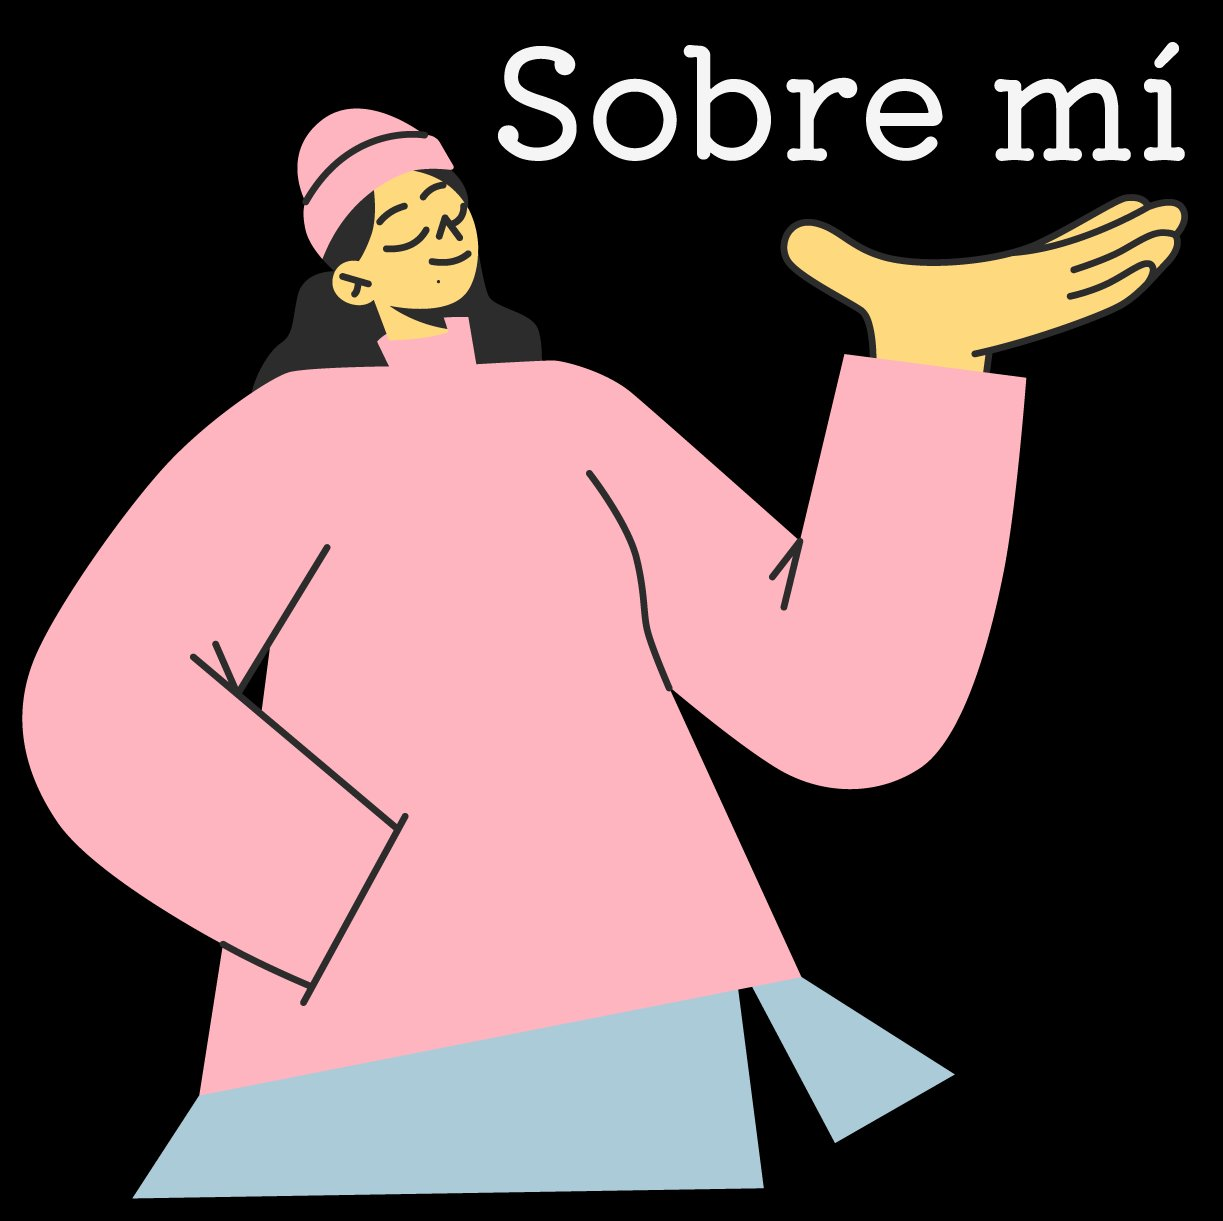
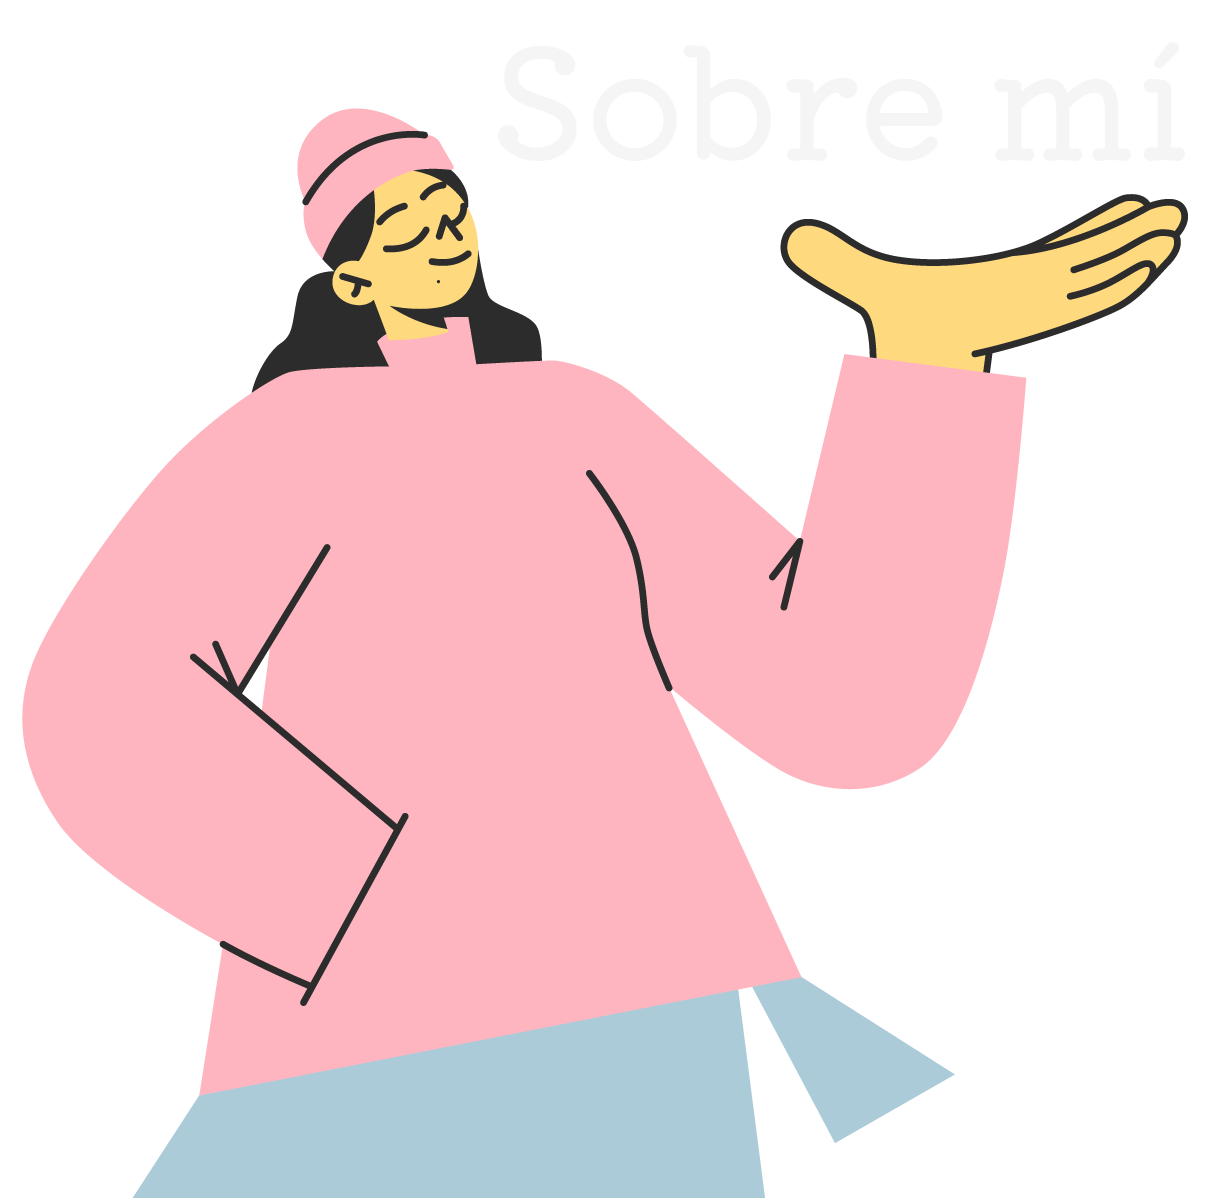
Add files via upload

diff --git a/sobre.html b/sobre.html
@@ -137,44 +137,39 @@
     .hamburger.open span:nth-child(2) { opacity: 0; }
     .hamburger.open span:nth-child(3) { transform: translateY(-7px) rotate(-45deg); }
 
-    /* ── ③ HERO SCROLL EFFECT ─────────────────
-       La ilustración ocupa toda la pantalla (100vh).
-       El rectángulo crema empieza visible un poco (peek)
-       y sube con scroll, tapando la ilustración.
+    /* ── HERO SCROLL EFFECT ───────────────────
+       La ilustración está fija (position: fixed) pegada arriba.
+       El rectángulo crema sube con el scroll y la tapa.
+       z-index: ilustración (2) < tarjeta (10)
     ─────────────────────────────────────────── */
 
     .hero-section {
       position: relative;
       height: 100vh;
-      background: var(--red);
-      display: flex;
-      flex-direction: column;
-      align-items: center;
-      justify-content: flex-end; /* imagen se centra mediante absolute */
+      background: transparent; /* el fondo rojo lo da el body */
       overflow: hidden;
     }
 
-    /* Ilustración: centrada, fija en la pantalla inicial */
+    /* Ilustración fija pegada al top, centrada */
     .hero-illustration {
-      position: absolute;
-      bottom: 120px; /* deja que la tarjeta asoma por debajo */
+      position: fixed;
+      top: 0;
       left: 50%;
       transform: translateX(-50%);
       width: clamp(260px, 50vw, 540px);
-      mix-blend-mode: multiply; /* negro del PNG se funde con rojo */
-      z-index: 1;
+      z-index: 2;
       pointer-events: none;
     }
 
-    /* Pequeño "peek" de la tarjeta visible desde el inicio */
+    /* Peek de la tarjeta al fondo del hero */
     .card-peek {
       position: absolute;
-      bottom: 0; left: 0; right: 0;
+      bottom: 0;
+      left: 10%; right: 10%;
       height: 120px;
       background: var(--cream);
       border-radius: 28px 28px 0 0;
-      z-index: 2;
-      /* indica al usuario que hay scroll */
+      z-index: 3;
       display: flex;
       align-items: flex-start;
       justify-content: center;
@@ -188,16 +183,16 @@
     }
 
     /* ── TARJETA PRINCIPAL ───────────────────── */
-    /* Se posiciona justo después de la sección hero */
     .card-outer {
       position: relative;
       z-index: 10;
       background: var(--cream);
-      border-radius: 28px 28px 0 0;
-      margin-top: -28px; /* solapa ligeramente con el hero */
+      border-radius: 28px;
+      margin-top: -28px;
+      margin-left: 10%;
+      margin-right: 10%;
+      margin-bottom: 3rem;
       padding: 3.5rem 3.5rem 5rem;
-      width: 100%;
-      max-width: 100%;
     }
 
     .card-inner {
@@ -497,6 +492,15 @@
       border-color: var(--pink);
     }
 
+    /* ── PARTÍCULAS ──────────────────────────── */
+    #particles-canvas {
+      position: fixed;
+      top: 0; left: 0;
+      width: 100%; height: 100%;
+      z-index: 1; /* por debajo de la ilustración (2) y la tarjeta (10) */
+      pointer-events: none;
+    }
+
     /* ── RESPONSIVE ──────────────────────────── */
     @media (max-width: 640px) {
       nav#mainNav { padding: 1.1rem 1.5rem; }
@@ -518,8 +522,9 @@
       .nav-links li   { width: 100%; text-align: center; }
       .nav-links a    { display: inline-block; padding: 0.6rem 1.5rem; font-size: 1rem; }
 
-      .hero-illustration { width: 85vw; bottom: 90px; }
-      .card-outer        { padding: 2.2rem 1.4rem 3rem; }
+      .hero-illustration { width: 88vw; }
+      .card-peek  { left: 3%; right: 3%; }
+      .card-outer { padding: 2.2rem 1.4rem 3rem; margin-left: 3%; margin-right: 3%; }
       .yellow-block      { grid-template-columns: 1fr; }
 
       footer {
@@ -536,6 +541,7 @@
 <body>
 
   <!-- NAV fixed -->
+  <canvas id="particles-canvas"></canvas>
   <nav id="mainNav">
     <a href="index.html" class="logo">
       <span class="logo-dot"></span>
@@ -746,6 +752,71 @@ humor_enabled</p>
       el.addEventListener('mouseenter', () => cursor.classList.add('hover'));
       el.addEventListener('mouseleave', () => cursor.classList.remove('hover'));
     });
+  </script>
+
+  <script>
+    // ── PARTÍCULAS ────────────────────────────────────────────────
+    (function () {
+      const canvas = document.getElementById('particles-canvas');
+      const ctx    = canvas.getContext('2d');
+
+      function resize() {
+        canvas.width  = window.innerWidth;
+        canvas.height = window.innerHeight;
+      }
+      resize();
+      window.addEventListener('resize', () => { resize(); initParticles(); });
+
+      const COUNT = 55;
+      let particles = [];
+
+      function rand(min, max) { return Math.random() * (max - min) + min; }
+
+      function initParticles() {
+        particles = [];
+        for (let i = 0; i < COUNT; i++) {
+          particles.push({
+            x:     rand(0, canvas.width),
+            y:     rand(0, canvas.height),
+            r:     rand(1.5, 4.5),
+            vx:    rand(-0.3, 0.3),
+            vy:    rand(-0.5, -0.1),
+            alpha: rand(0.08, 0.25),
+          });
+        }
+      }
+
+      initParticles();
+
+      // Paleta: tonos crema y rosa muy sutiles sobre el rojo
+      const colors = ['#FAF6EE', '#F4A7B9', '#ffffff'];
+
+      function draw() {
+        ctx.clearRect(0, 0, canvas.width, canvas.height);
+
+        particles.forEach(p => {
+          ctx.beginPath();
+          ctx.arc(p.x, p.y, p.r, 0, Math.PI * 2);
+          ctx.fillStyle = colors[Math.floor(p.r * 10) % colors.length];
+          ctx.globalAlpha = p.alpha;
+          ctx.fill();
+          ctx.globalAlpha = 1;
+
+          // movimiento
+          p.x += p.vx;
+          p.y += p.vy;
+
+          // reborde — si sale por arriba reaparece abajo
+          if (p.y < -p.r)       p.y = canvas.height + p.r;
+          if (p.x < -p.r)       p.x = canvas.width  + p.r;
+          if (p.x > canvas.width  + p.r) p.x = -p.r;
+        });
+
+        requestAnimationFrame(draw);
+      }
+
+      draw();
+    })();
   </script>
 </body>
 </html>
